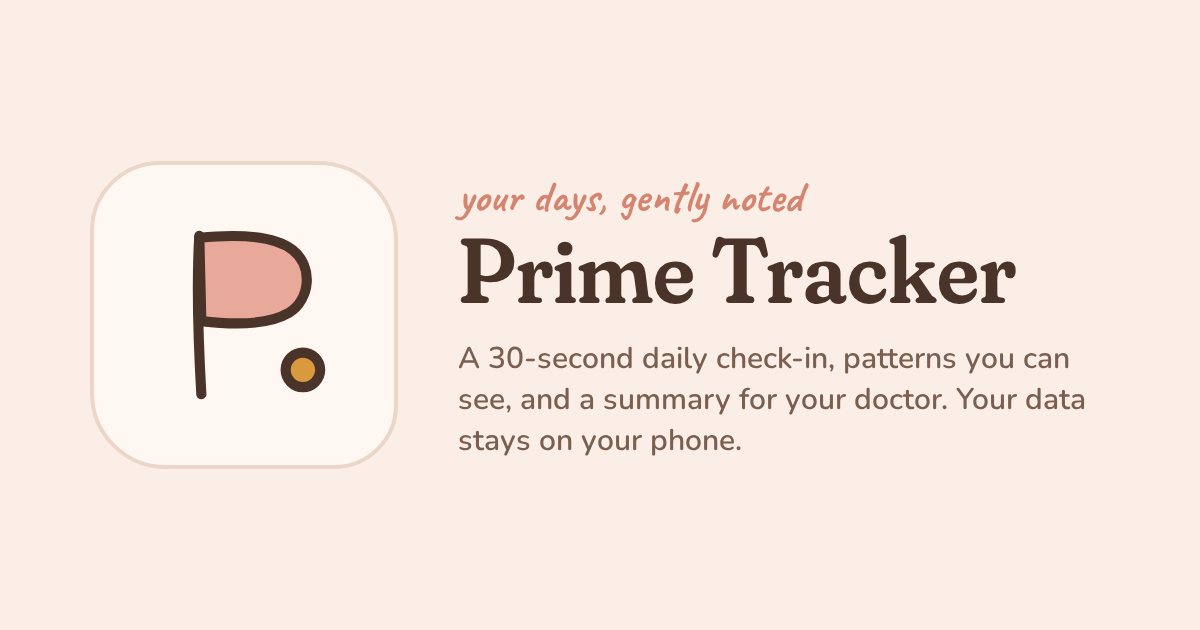
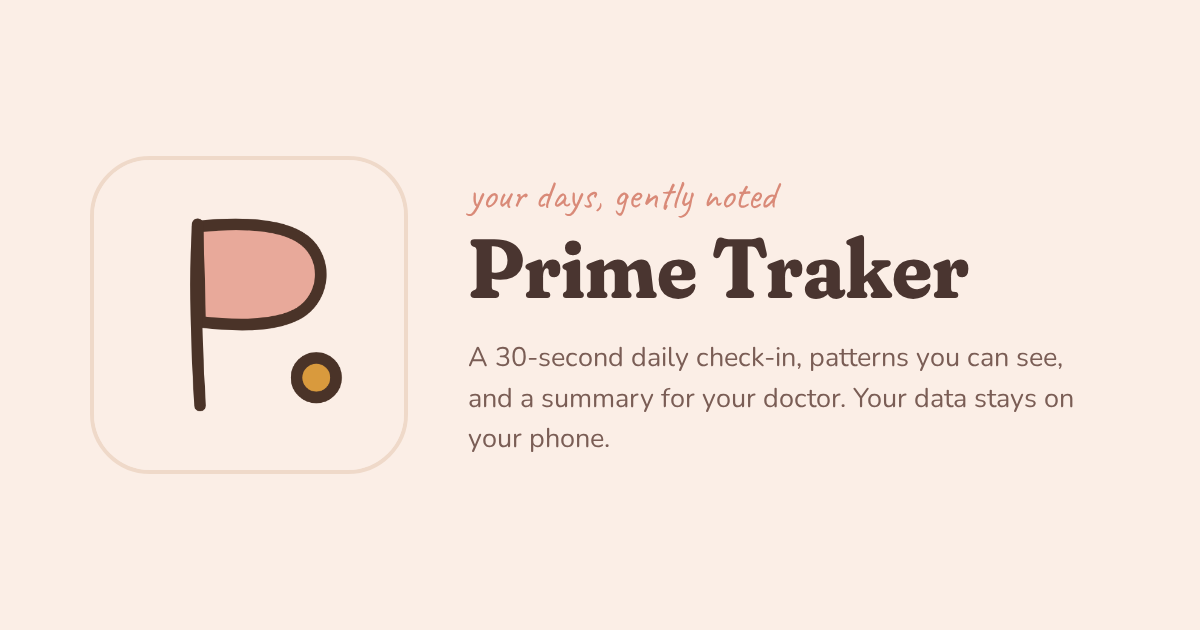
v12: rename to Prime Traker, new og-image, cache peri-v11, CNAME primetraker.com

diff --git a/sw.js b/sw.js
@@ -1,4 +1,4 @@
-const C='peri-v10',A=['./','index.html','manifest.webmanifest','icon-192.png','icon-512.png','icon-512-maskable.png','icon-180.png','fonts/fraunces-latin.woff2','fonts/caveat-latin.woff2','fonts/nunito-latin.woff2'];
+const C='peri-v11',A=['./','index.html','manifest.webmanifest','icon-192.png','icon-512.png','icon-512-maskable.png','icon-180.png','fonts/fraunces-latin.woff2','fonts/caveat-latin.woff2','fonts/nunito-latin.woff2'];
 self.addEventListener('install',e=>{e.waitUntil(caches.open(C).then(c=>c.addAll(A)));self.skipWaiting()});
 self.addEventListener('activate',e=>{e.waitUntil(caches.keys().then(k=>Promise.all(k.filter(x=>x!==C).map(x=>caches.delete(x)))));self.clients.claim()});
 self.addEventListener('fetch',e=>{if(e.request.method!=='GET')return;e.respondWith(fetch(e.request).then(r=>{const cp=r.clone();caches.open(C).then(c=>c.put(e.request,cp));return r}).catch(()=>caches.match(e.request,{ignoreSearch:true})))});
